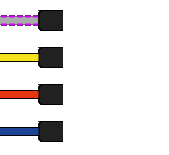
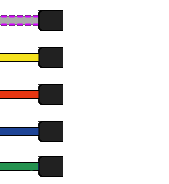
added cruiser to legend

Changed region(s): [[0.0, 0.2323, 0.3846, 0.9806], [0.0, 0.0516, 0.3846, 0.2065]]

diff --git a/html/styles.css b/html/styles.css
@@ -663,6 +663,6 @@ i.inactive {
     right: 50px;
     top: 150px;
     width: 169px;
-    height: 155px;
+    height: 184px;
     background-image: url("/legend1.png");
 }
